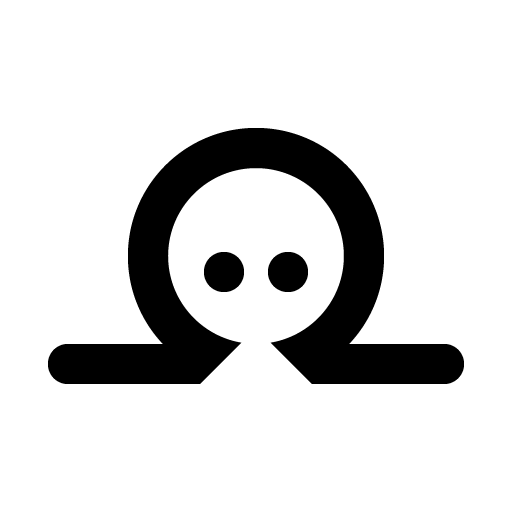
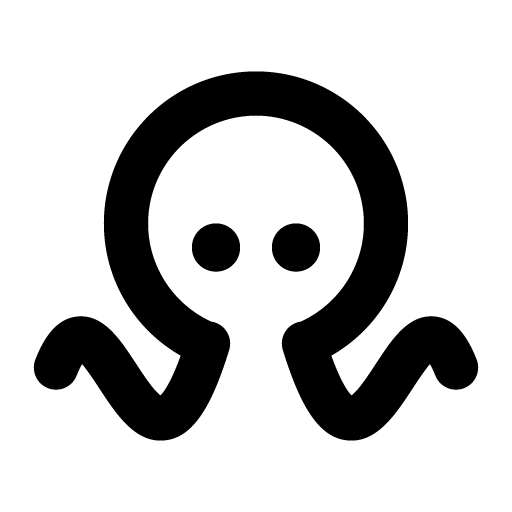
Rebrand to the octopus mark, violet accent and mist surface
Redraw the mark as an octopus and rename every brand term the site uses: purple becomes violet, zinc becomes mist. The design-kit exports are renamed to match, and one was misfiled — icon-violet-black.png is a 512x128 wordmark lockup, not an icon, so it lands as logo-violet-black and its SVG is repainted from #8b5cf6 to the #a78bfa the PNG already used. All nine variants now ship as both SVG and PNG: the avatars bake their backdrop into a rect rather than existing only as raster exports, so DesignKitImageCard loses its png-only escape hatch. The mist scale has to be declared in @theme, not merely consumed in .dark, because /design-kit sets its dark card backgrounds with bg-mist-900 from Markdown and Tailwind only emits utilities for colours it can see.

diff --git a/app/assets/css/main.css b/app/assets/css/main.css
@@ -30,21 +30,43 @@
 }
 
 @theme static {
-  --font-sans: "Geist", ui-sans-serif, system-ui, sans-serif;
-  --font-mono: "Geist Mono", ui-monospace, monospace;
+  --font-sans: "Geist", "Inter", "Fira Sans", ui-sans-serif, system-ui, sans-serif;
+  --font-mono: "Geist Mono", "JetBrains Mono", "Fira Code", ui-monospace, monospace;
 
-  /* Rux brand purple, from --rux-gradient in the old custom.css (#6f42c1). */
-  --color-rux-50: #f5f1fc;
-  --color-rux-100: #ebe3f9;
-  --color-rux-200: #d7c7f3;
-  --color-rux-300: #bda3ea;
-  --color-rux-400: #9d78de;
-  --color-rux-500: #8250d4;
-  --color-rux-600: #6f42c1;
-  --color-rux-700: #5c37a0;
-  --color-rux-800: #4a2d80;
-  --color-rux-900: #3c2668;
-  --color-rux-950: #251543;
+  /* Rux brand violet. --color-rux-400 (#a78bfa) is the accent the mark is drawn
+     in — see RuxLogo.vue, public/logo.svg and the design-kit exports — and it is
+     the value /design-kit publishes as "Violet". */
+  --color-rux-50: #f5f3ff;
+  --color-rux-100: #ede9fe;
+  --color-rux-200: #ddd6fe;
+  --color-rux-300: #c4b5fd;
+  --color-rux-400: #a78bfa;
+  --color-rux-500: #8b5cf6;
+  --color-rux-600: #7c3aed;
+  --color-rux-700: #6d28d9;
+  --color-rux-800: #5b21b6;
+  --color-rux-900: #4c1d95;
+  --color-rux-950: #2e1065;
+
+  /* "Mist" — the brand's dark surface, a cool blue-grey rather than a neutral.
+     --color-mist-900 (#161b1d) is the page background and the backdrop baked
+     into icon-violet-mist.svg. /design-kit publishes #22292b as the swatch, a
+     touch lighter than the raw page background — deliberate, so don't "fix" the
+     mismatch by syncing one to the other. The scale has to be declared here
+     (not just used in `.dark` below) so Tailwind emits the utilities —
+     /design-kit sets its dark card backgrounds with `bg-mist-900` from
+     Markdown. */
+  --color-mist-50: #f3f6f7;
+  --color-mist-100: #e6ecec;
+  --color-mist-200: #ccd6d8;
+  --color-mist-300: #aab9bd;
+  --color-mist-400: #82969b;
+  --color-mist-500: #65787d;
+  --color-mist-600: #4f6064;
+  --color-mist-700: #3a4448;
+  --color-mist-800: #242b2e;
+  --color-mist-900: #161b1d;
+  --color-mist-950: #0c1012;
 }
 
 :root {
@@ -56,14 +78,13 @@
 }
 
 .dark {
-  /* Nuxt UI's dark palette bottoms out at neutral-900. nuxt.com pushes the page
-     background one step further to 950 and lifts the raised surfaces to 900/800,
-     which is what gives its dark mode the extra separation between the page and
-     cards, code blocks and popovers. */
-  --ui-bg: var(--ui-color-neutral-950);
-  --ui-bg-muted: var(--ui-color-neutral-900);
-  --ui-bg-elevated: var(--ui-color-neutral-900);
-  --ui-bg-accented: var(--ui-color-neutral-800);
+  /* Nuxt UI's dark palette is neutral greys. The brand's dark surface is mist,
+     and the three steps give the same separation nuxt.com gets between the page
+     and its cards, code blocks and popovers. */
+  --ui-bg: var(--color-mist-900);
+  --ui-bg-muted: var(--color-mist-800);
+  --ui-bg-elevated: var(--color-mist-800);
+  --ui-bg-accented: var(--color-mist-700);
 }
 
 /* Coding ligatures (->, =>, !=, >=, <-, |>) for the mono face.

diff --git a/app/components/RuxMark.vue b/app/components/RuxMark.vue
@@ -1,11 +1,11 @@
 <!--
-  The Rux brand mark on its own — the omega glyph from RuxLogo, without the
+  The Rux brand mark on its own — the octopus glyph from RuxLogo, without the
   wordmark beside it.
 
-  Drawn in `currentColor` rather than the logo's baked purple so the caller sets
+  Drawn in `currentColor` rather than the logo's baked violet so the caller sets
   the colour. That is what the footer seam needs: nuxt.com marks it with a
   monochrome `i-simple-icons-nuxtdotjs` that sits back in the muted grey, and a
-  full-strength purple logo there reads as a second header instead of a divider.
+  full-strength violet logo there reads as a second header instead of a divider.
 
   Same geometry as public/assets/design-kit/icon-*.svg, kept on that file's
   square 512 viewBox so it drops into a square icon slot without extra padding.
@@ -13,10 +13,10 @@
 <template>
   <svg viewBox="0 0 512 512" fill="none" xmlns="http://www.w3.org/2000/svg" aria-hidden="true">
     <path
-      d="M464,364c0,5.52-2.24,10.52-5.86,14.14-3.62,3.62-8.62,5.86-14.14,5.86h-132l-41.24-41.24c41.57-7.01,73.24-43.19,73.24-86.76,0-48.6-39.4-88-88-88s-88,39.4-88,88c0,43.57,31.67,79.75,73.24,86.76l-41.24,41.24H68c-11.05,0-20-8.95-20-20,0-5.52,2.24-10.52,5.86-14.14s8.62-5.86,14.14-5.86h95.05c-21.72-22.94-35.05-53.92-35.05-88,0-70.69,57.31-128,128-128s128,57.31,128,128c0,34.08-13.33,65.06-35.05,88h95.05c11.05,0,20,8.95,20,20Z"
+      d="M476.43,359.83c-6.9-17.24-18.72-40.41-41.72-42.72-26.05-2.63-42.78,22.91-58.96,47.59-5.46,8.31-11.09,16.91-16.42,23.42-3.71,4.53-6.28,6.82-7.8,7.95-3.06-2.93-10.42-12.26-20.36-40,45.86-26.19,76.83-75.58,76.83-132.07,0-83.81-68.19-152-152-152S104,140.19,104,224c0,56.49,30.97,105.88,76.83,132.07-9.94,27.74-17.3,37.07-20.36,40-1.52-1.13-4.09-3.42-7.8-7.95-5.33-6.51-10.96-15.11-16.42-23.42-16.18-24.68-32.9-50.21-58.95-47.59-23.01,2.31-34.83,25.48-41.73,42.72-4.51,11.28.98,24.08,12.26,28.6,11.28,4.51,24.08-.98,28.6-12.26,2.21-5.53,4.11-9.29,5.59-11.81,5.39,6.08,12.64,17.14,17.44,24.46,16.09,24.54,34.18,52.14,61.05,52.14,1.87,0,3.78-.13,5.74-.41,22.35-3.17,39.45-23.96,55.57-68.43,2.42-6.68,4.82-13.89,7.21-21.65,2.85-9.27-.73-18.99-8.2-24.35-1.89-1.35-4.02-2.43-6.36-3.15-1.12-.34-2.25-.6-3.38-.76-37.19-17.07-63.09-54.67-63.09-98.21,0-59.55,48.45-108,108-108s108,48.45,108,108c0,43.54-25.9,81.14-63.09,98.21-1.13.16-2.26.42-3.38.76-2.34.72-4.47,1.8-6.36,3.15-7.47,5.36-11.05,15.08-8.2,24.35,2.39,7.76,4.79,14.97,7.21,21.65,16.12,44.47,33.22,65.26,55.57,68.43,1.96.28,3.87.41,5.74.41,26.87,0,44.97-27.6,61.05-52.14,4.8-7.32,12.05-18.38,17.44-24.46,1.48,2.52,3.38,6.28,5.59,11.81,4.52,11.28,17.32,16.77,28.6,12.26,11.28-4.52,16.77-17.32,12.26-28.6Z"
       fill="currentColor"
     />
-    <circle cx="224" cy="272" r="20" fill="currentColor" />
-    <circle cx="288" cy="272" r="20" fill="currentColor" />
+    <circle cx="216" cy="248" r="24" fill="currentColor" />
+    <circle cx="296" cy="248" r="24" fill="currentColor" />
   </svg>
 </template>

diff --git a/app/components/RuxLogo.vue b/app/components/RuxLogo.vue
@@ -9,10 +9,10 @@
   >
     <path
       d="M38.37,24.96c-.6-1.5-1.62-3.5-3.62-3.71-2.26-.23-3.71,1.99-5.11,4.13-.47.72-.96,1.47-1.42,2.03-.32.39-.54.59-.68.69-.27-.25-.9-1.06-1.77-3.47,3.98-2.27,6.66-6.56,6.66-11.45,0-7.27-5.91-13.18-13.18-13.18S6.07,5.91,6.07,13.18c0,4.9,2.69,9.18,6.66,11.45-.86,2.41-1.5,3.22-1.77,3.47-.13-.1-.35-.3-.68-.69-.46-.56-.95-1.31-1.42-2.03-1.4-2.14-2.85-4.35-5.11-4.13-2,.2-3.02,2.21-3.62,3.71-.39.98.08,2.09,1.06,2.48.98.39,2.09-.08,2.48-1.06.19-.48.36-.81.48-1.02.47.53,1.1,1.49,1.51,2.12,1.4,2.13,2.96,4.52,5.29,4.52.16,0,.33-.01.5-.04,1.94-.27,3.42-2.08,4.82-5.93.21-.58.42-1.2.63-1.88.25-.8-.06-1.65-.71-2.11-.16-.12-.35-.21-.55-.27-.1-.03-.2-.05-.29-.07-3.23-1.48-5.47-4.74-5.47-8.52,0-5.16,4.2-9.37,9.37-9.37s9.37,4.2,9.37,9.37c0,3.78-2.25,7.04-5.47,8.52-.1.01-.2.04-.29.07-.2.06-.39.16-.55.27-.65.46-.96,1.31-.71,2.11.21.67.42,1.3.63,1.88,1.4,3.86,2.88,5.66,4.82,5.93.17.02.34.04.5.04,2.33,0,3.9-2.39,5.29-4.52.42-.63,1.05-1.59,1.51-2.12.13.22.29.54.48,1.02.39.98,1.5,1.45,2.48,1.06.98-.39,1.45-1.5,1.06-2.48Z"
-      fill="#8b5cf6"
+      fill="#a78bfa"
     />
-    <circle cx="15.79" cy="15.26" r="2.08" fill="#8b5cf6" />
-    <circle cx="22.72" cy="15.26" r="2.08" fill="#8b5cf6" />
+    <circle cx="15.79" cy="15.26" r="2.08" fill="#a78bfa" />
+    <circle cx="22.72" cy="15.26" r="2.08" fill="#a78bfa" />
     <path
       d="M55.72,31.52V3.12h11.88c2.05,0,3.83.35,5.32,1.04,1.49.69,2.65,1.68,3.48,2.96.83,1.28,1.24,2.79,1.24,4.52,0,1.31-.28,2.47-.84,3.48-.56,1.01-1.31,1.83-2.26,2.44-.95.61-1.99.99-3.14,1.12l-.2-.4c1.84,0,3.26.41,4.26,1.24s1.57,2.09,1.7,3.8l.72,8.2h-5.28l-.6-7.44c-.08-1.12-.44-1.95-1.08-2.48-.64-.53-1.71-.8-3.2-.8h-6.8v10.72h-5.2ZM60.92,16.24h6.36c1.57,0,2.8-.37,3.68-1.12s1.32-1.8,1.32-3.16-.45-2.45-1.34-3.2c-.89-.75-2.19-1.12-3.9-1.12h-6.12v8.6Z"
       fill="currentColor"

diff --git a/app/components/content/design-kit/DesignKitImageCard.vue b/app/components/content/design-kit/DesignKitImageCard.vue
@@ -9,16 +9,16 @@
  * component is found.
  *
  * `path` is the shared basename of the .svg and .png in public/assets/design-kit
- * — the two files must be named identically apart from the extension. The avatar
- * variants ship as PNG only (they are raster exports with a baked background),
- * hence `png-only`.
+ * — the two files must be named identically apart from the extension. That now
+ * includes the avatar variants (`icon-violet-white`, `icon-violet-mist`), which
+ * bake their backdrop into a `<rect>` in the SVG rather than shipping as raster
+ * exports; the earlier `png-only` escape hatch is gone with them.
  */
 defineProps<{
   name: string;
   path: string;
   background?: string;
   full?: boolean;
-  pngOnly?: boolean;
 }>();
 </script>
 
@@ -26,7 +26,7 @@ defineProps<{
   <div class="not-prose">
     <UCard :ui="{ body: full ? 'p-11 sm:p-11' : 'p-8 sm:p-8' }" :class="background">
       <img
-        :src="`/assets/design-kit/${path}.${pngOnly ? 'png' : 'svg'}`"
+        :src="`/assets/design-kit/${path}.svg`"
         :alt="`Rux logo (${name})`"
         class="mx-auto"
         :class="full ? 'h-10' : 'h-16'"
@@ -40,7 +40,6 @@ defineProps<{
 
       <div class="flex items-center">
         <UButton
-          v-if="!pngOnly"
           variant="link"
           label="svg"
           size="sm"

diff --git a/app/pages/index.vue b/app/pages/index.vue
@@ -377,7 +377,7 @@ useHead({ link: [{ rel: "canonical", href: "https://rux-lang.dev/" }] });
         Upstream switches to columns at `sm` because it has three cards; four
         need more room, so this waits for `lg`.
 
-        The wash is the Rux purple on every card. nuxt.com varies the tint per
+        The wash is the Rux violet on every card. nuxt.com varies the tint per
         card because each is a different product's brand — these four are all
         facets of one toolchain, so a different hue each would be decoration
         with nothing behind it.

diff --git a/app/utils/playground-examples.ts b/app/utils/playground-examples.ts
@@ -194,9 +194,9 @@ import Math::Pi;
 
 func Main() -> int {
     Print("Circle radius: ");
-    let input = ReadLine();             // read String from stdin
-    let result = ParseFloat64(input);   // convert String to float64
-    match result {                      // test result of converting
+    let input = ReadLine();
+    let result = ParseFloat64(input);
+    match result {
         .Success(radius) => {
             PrintLine("Circumference: {}", 2.0 * Pi * radius);
             PrintLine("Area: {}", Pi * radius * radius);

diff --git a/content/design-kit.md b/content/design-kit.md
@@ -22,29 +22,30 @@ look the same wherever it appears.
 
 ## Logo
 
-The logo is made of two elements: the omega mark and the `Rux` wordmark. In most
-places they appear together. The mark works on its own as an icon, an avatar, or
-a badge — but the wordmark should never appear without the mark beside it.
+The logo is made of two elements: the octopus mark and the `Rux` wordmark. In
+most places they appear together. The mark works on its own as an icon, an
+avatar, or a badge — but the wordmark should never appear without the mark
+beside it.
 
 Pick the variant with the most contrast against your background. On a colored or
 photographic background, use the solid white or solid black version rather than
-the purple one.
+the violet one.
 
 ### Icon
 
 ::u-page-grid
-:design-kit-image-card{path="icon-purple" name="Purple"}
+:design-kit-image-card{path="icon-violet" name="Violet"}
 :design-kit-image-card{path="icon-black" name="Black" background="bg-white"}
-:design-kit-image-card{path="icon-white" name="White" background="bg-zinc-800"}
+:design-kit-image-card{path="icon-white" name="White" background="bg-mist-900"}
 ::
 
 ### Logo
 
 ::u-page-grid
-:design-kit-image-card{path="logo-purple-white" name="Purple & white" background="bg-zinc-800" full}
+:design-kit-image-card{path="logo-violet-white" name="Violet & white" background="bg-mist-900" full}
 :design-kit-image-card{path="logo-black" name="Black" background="bg-white" full}
-:design-kit-image-card{path="logo-white" name="White" background="bg-zinc-800" full}
-:design-kit-image-card{path="logo-purple-black" name="Purple & black" background="bg-white" full}
+:design-kit-image-card{path="logo-white" name="White" background="bg-mist-900" full}
+:design-kit-image-card{path="logo-violet-black" name="Violet & black" background="bg-white" full}
 ::
 
 ### Avatars
@@ -54,8 +55,8 @@ platforms flatten transparency onto a background you do not control. These two
 export the mark onto a fixed 512 × 512 backdrop instead.
 
 ::u-page-grid
-:design-kit-image-card{path="icon-purple-white" name="Purple on white" png-only}
-:design-kit-image-card{path="icon-purple-zinc" name="Purple on zinc" png-only}
+:design-kit-image-card{path="icon-violet-white" name="Violet on white" background="bg-white"}
+:design-kit-image-card{path="icon-violet-mist" name="Violet on mist" background="bg-[#22292b]"}
 ::
 
 ### Usage
@@ -74,18 +75,18 @@ maintains what you are building.
 
 ## Color Palette
 
-The palette is built around a single accent purple, kept deliberately small so
+The palette is built around a single accent violet, kept deliberately small so
 that the color carries meaning wherever it appears. Use the values below rather
 than sampling them from a screenshot.
 
 ::u-page-grid
-:design-kit-color-card{background="#8E51FF" name="Purple"}
-:design-kit-color-card{background="#27272A" name="Zinc"}
+:design-kit-color-card{background="#A78BFA" name="Violet"}
+:design-kit-color-card{background="#22292B" name="Mist"}
 :design-kit-color-card{background="#000000" name="Black"}
 :design-kit-color-card{background="#FFFFFF" name="White"}
 ::
 
-Purple is the accent — links, active states, the mark itself. Zinc is the dark
+Violet is the accent — links, active states, the mark itself. Mist is the dark
 surface, black and white carry the text. Nothing else is part of the brand.
 
 ## Typography

diff --git a/content/docs/11.statements/2.if.md b/content/docs/11.statements/2.if.md
@@ -1,4 +1,4 @@
-# `if` / `else`
+# if / else
 
 `if` runs its block when the condition is `true`. Add `else if` to test further conditions, and a final `else` to handle everything that remains. The first matching block runs; the rest are skipped.
 

diff --git a/content/docs/11.statements/5.for.md b/content/docs/11.statements/5.for.md
@@ -1,4 +1,4 @@
-# `for` / `in`
+# for / in
 
 `for` iterates over the elements of a collection or the values of a range, binding each in turn to the loop variable.
 

diff --git a/content/docs/11.statements/7.break-continue.md b/content/docs/11.statements/7.break-continue.md
@@ -3,7 +3,7 @@ navigation:
   title: break / continue
 ---
 
-# `break` and `continue`
+# break / continue
 
 `break` and `continue` alter the flow of a loop:
 
